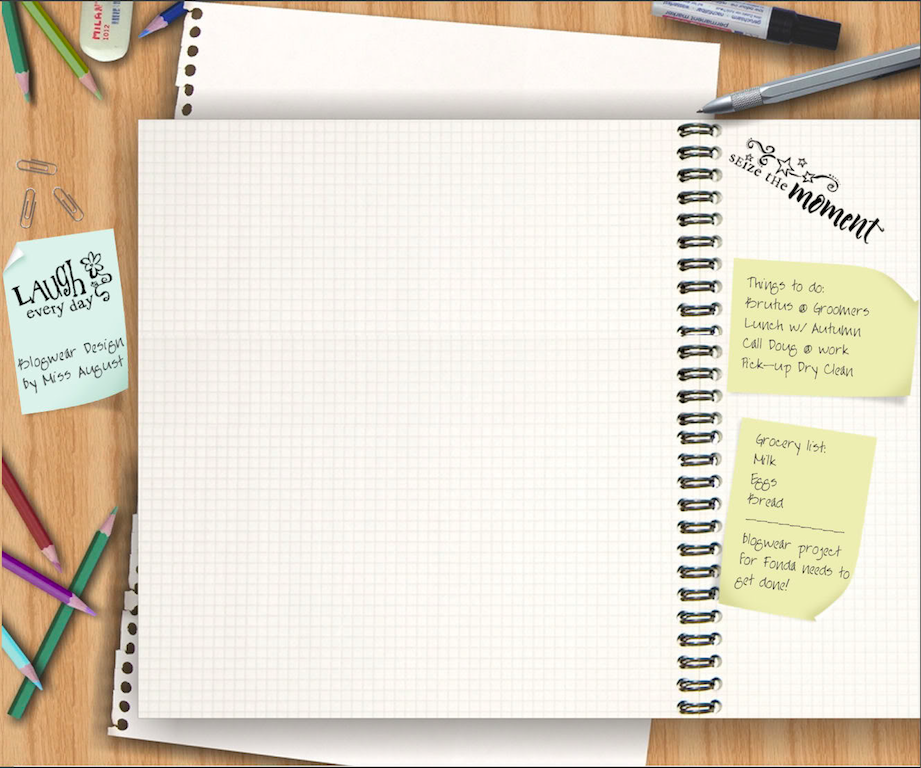
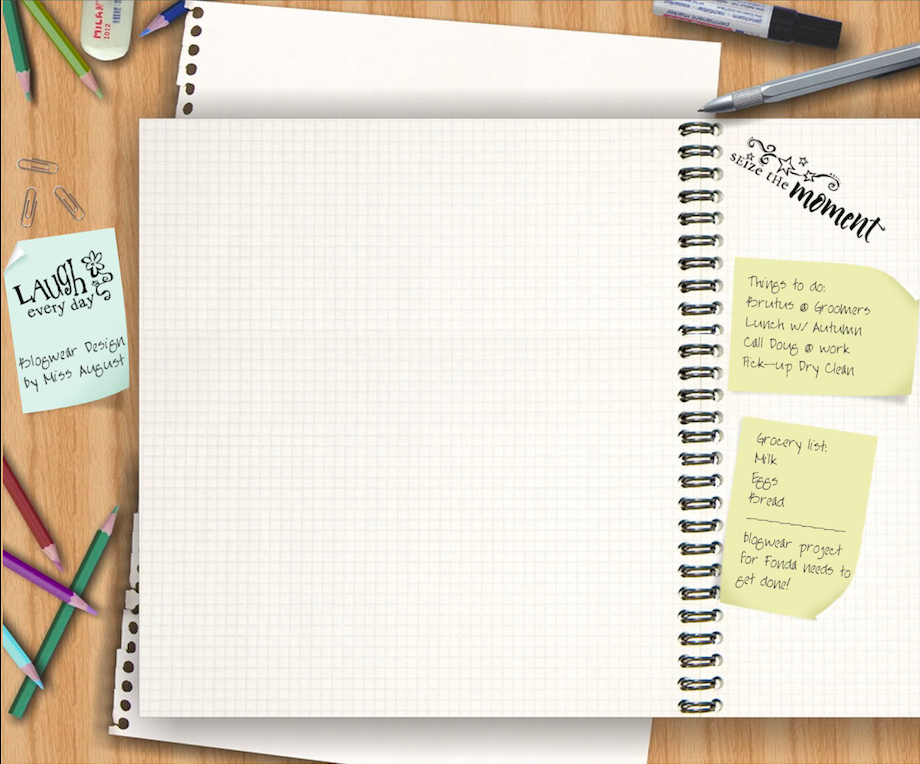
show page for slider

diff --git a/app/assets/javascripts/lib/parallax.js b/app/assets/javascripts/lib/parallax.js
@@ -1,0 +1,1 @@
+window.onload=function(){if(typeof jQuery==="undefined"){alert("ERROR: parallax.js requires jQuery.")}else{var a=function(){parallax.width=window.innerWidth;parallax.height=window.innerHeight};a();$(window).resize(function(){a()})}};var parallaxPage=function(a,b){return{key:a,page:b,right:function(a){return this.transition({left:parallax.width,top:0},{left:-parallax.width,top:0},a)},left:function(a){return this.transition({left:-parallax.width,top:0},{left:parallax.width,top:0},a)},top:function(a){return this.transition({left:0,top:-parallax.height},{left:0,top:parallax.height},a)},bottom:function(a){return this.transition({left:0,top:parallax.height},{left:0,top:-parallax.height},a)},transition:function(a,b,c){if(!parallax.sliding){parallax.sliding=true;var d=this;if(parallax.current!==this){this.hide(a);if(typeof parallax.preload==="function"){parallax.preload()}if(typeof this.preload==="function"){this.preload()}this.slide({left:0,top:0},function(){d.makeCurrent();parallax.sliding=false;if(typeof c==="function"){c()}});if(typeof parallax.current!=="undefined"){parallax.current.slide(b,function(){parallax.sliding=false})}parallax.slideBackground(a)}}return this},slide:function(a,b){this.page.css("display","block");this.page.stop().animate(a,parallax.speed,parallax.easing,function(){if(typeof b==="function"){b()}})},hide:function(a){a=a||{left:parallax.width,top:0};this.page.css("display","none");this.page.css(a);return this},show:function(a){a=a||{left:0,top:0};if(typeof parallax.current!=="undefined"){parallax.current.hide()}this.makeCurrent();this.page.css("display","block");this.page.css(a);return this},makeCurrent:function(){if(this===parallax.current){return false}else{if(typeof parallax.current!=="undefined"){parallax.current.hide();parallax.last=parallax.current}if(parallax.updateUrl===true){this.updateUrl()}if(typeof parallax.onload=="function"){parallax.onload()}if(typeof this.onload==="function"){this.onload()}parallax.current=this}return true},updateUrl:function(){var a=document.URL;a=a.lastIndexOf("#")===-1?a:a.substring(0,a.lastIndexOf("#"));window.location.href=a+"#"+this.key},ackbar:function(){alert(this.key+" thinks it's a trap!");return this}}};var parallax={speed:800,easing:"swing",sliding:false,unusableNames:["last","current","background","onload","updateUrl","preload"],scaling:.15,add:function(a,b){var c=true;if(typeof a==="object"){try{b=a;a=a.attr("id")}catch(d){c=false;alert("ERROR:Page object lacks an id")}}else if(typeof a!=="string"){c=false;alert("ERROR:undefined key")}if(typeof b!=="object"){c=false;alert("ERROR:undefined page")}if(c){validKeyName=true;for(propName in this){if(propName===a){validKeyName=false}}if($.inArray(a,this.unusableNames)!==-1){validKeyName=false}if(validKeyName){this[a]=parallaxPage(a,b);this[a].hide();this[a].page.css("position","absolute")}else{alert("ERROR:'"+a+"' cannot be used as a page identifier")}}return this},fromUrl:function(){var a=document.URL.lastIndexOf("#");if(a!==-1){pageName=document.URL.substring(a+1,document.URL.length);if(parallax.hasOwnProperty(pageName)){return parallax[pageName]}}},slideBackground:function(a){if(typeof this.background!=="undefined"&&typeof a!=="undefined"){$(this.background).animate({"background-position-x":"+="+ -a.left*parallax.scaling+"px","background-position-y":"+="+ -a.top*parallax.scaling+"px"},parallax.speed,parallax.easing)}}}

diff --git a/app/assets/stylesheets/projects.css b/app/assets/stylesheets/projects.css
@@ -19,7 +19,7 @@
 
 #content{
   width:824px;
-  height:900px;
+  height:1300px;
   margin:auto auto -200px auto;
   margin-left: 100px;
   background:transparent url(content_background.png) no-repeat top left;
@@ -117,12 +117,38 @@ img{
 
 }
 
-#mainImage{
-  width: 700px;
-  margin-left: 80px;
+#mainImage, .des_image{
+  width: 730px;
+  margin-left: 120px;
 }
 
-#description_with_images{
-  background: url(old_paper.jpg) no-repeat;
-  width: 1000px;
+#images_details{
+  position: relative;
+  margin: auto;
+  width: 900px;
+  overflow: hidden;
+}
+
+
+.carousel-direction {
+  position: absolute;
+  left: 710px;
+  top: 360px;
+  width: 40px;
+  height: 40px;
+  color: #ffffff;
+  font-size: 60px;
+  font-weight: 100;
+  line-height: 30px;
+  text-align: center;
+  background: #222222;
+  border: 3px solid #ffffff;
+  opacity: 0.7;
+  border-radius: 100%;
+  z-index: 5;
+  text-decoration: none;
+}
+
+#right {
+  left: 780px;
 }

diff --git a/app/assets/javascripts/project.js b/app/assets/javascripts/project.js
@@ -1,0 +1,24 @@
+var $currentWindowHeight = $(window).height();
+
+$(document).ready(function(){
+
+
+  var $currentProjectId = $('#currentProjectId').text();
+  $.ajax({
+    url:'/projects/' + $currentProjectId,
+    dataType: 'json'
+  }).done(function(response){
+
+    var $des_image = response.image_description
+    for(var g=0; g<$des_image.length; g++){
+      var $img = $('<img/>').addClass('des_image');
+      $img.attr('src', $des_image[g]).css({'height':$currentWindowHeight+'px;'});
+      $('#images_details').append($img);
+    }
+
+
+  });
+
+
+});
+

diff --git a/app/assets/stylesheets/pages.css b/app/assets/stylesheets/pages.css
@@ -1,11 +1,22 @@
 @import url(http://fonts.googleapis.com/css?family=Indie+Flower);
 
 body{
-    background: url(notebook_background.png);
-    background-size: 100%;
+/*    background: url(notebook_background.png);
+    background-size: 100%;*/
     font-family: 'Indie Flower', fantasy;
     max-width: 960px;
     text-align: center;
+}
+
+.bg{
+  background: url(notebook_background.png) repeat;
+  position: fixed;
+  background-size: 100%;
+  width: 100%;
+  height: 300%;
+  top:0;
+  left:0;
+  z-index: -1;
 }
 
 #container{

diff --git a/app/assets/javascripts/weeks.js b/app/assets/javascripts/weeks.js
@@ -1,27 +1,5 @@
-var app = app || {};
-
 
 $(document).ready(function(){
-
-  // app.weeksView = Backbone.View.extend({
-  //   initialize: function() {
-  //     console.log('you are appView page');
-  //   },
-
-  //   render: function() {
-
-  //   }
-
-  // })// end of weeksView
-
-  // app.Week = Backbone.Model.extend({
-
-  // }) // end of week Model
-
-  // app.Weeks = Backbone.Collection.extend({
-  //   url: '/weeks',
-  //   model: app.Week
-  // })// end of weeks collection
 
 
   var createBoxes = function(){

diff --git a/app/assets/javascripts/application.js b/app/assets/javascripts/application.js
@@ -15,6 +15,17 @@
 //= require jquery-ui
 //= require lib/underscore
 //= require lib/backbone
+//= require lib/parallax
 //= require_tree .
 
+$(document).ready(function(){
 
+  $(window).scroll(function(e){
+    parallax();
+  });
+  function parallax(){
+    var scrolled = $(window).scrollTop();
+    $('.bg').css('top',-(scrolled*0.2)+'px');
+  }
+
+});

diff --git a/app/controllers/projects_controller.rb b/app/controllers/projects_controller.rb
@@ -15,6 +15,10 @@ class ProjectsController < ApplicationController
 
   def show
     @project = Project.find params[:id]
-    render :json => @project
+    respond_to do |format|
+    format.html {}
+      format.js{ render :json => @project }
+      format.json{ render :json => @project }
+    end
   end
 end
